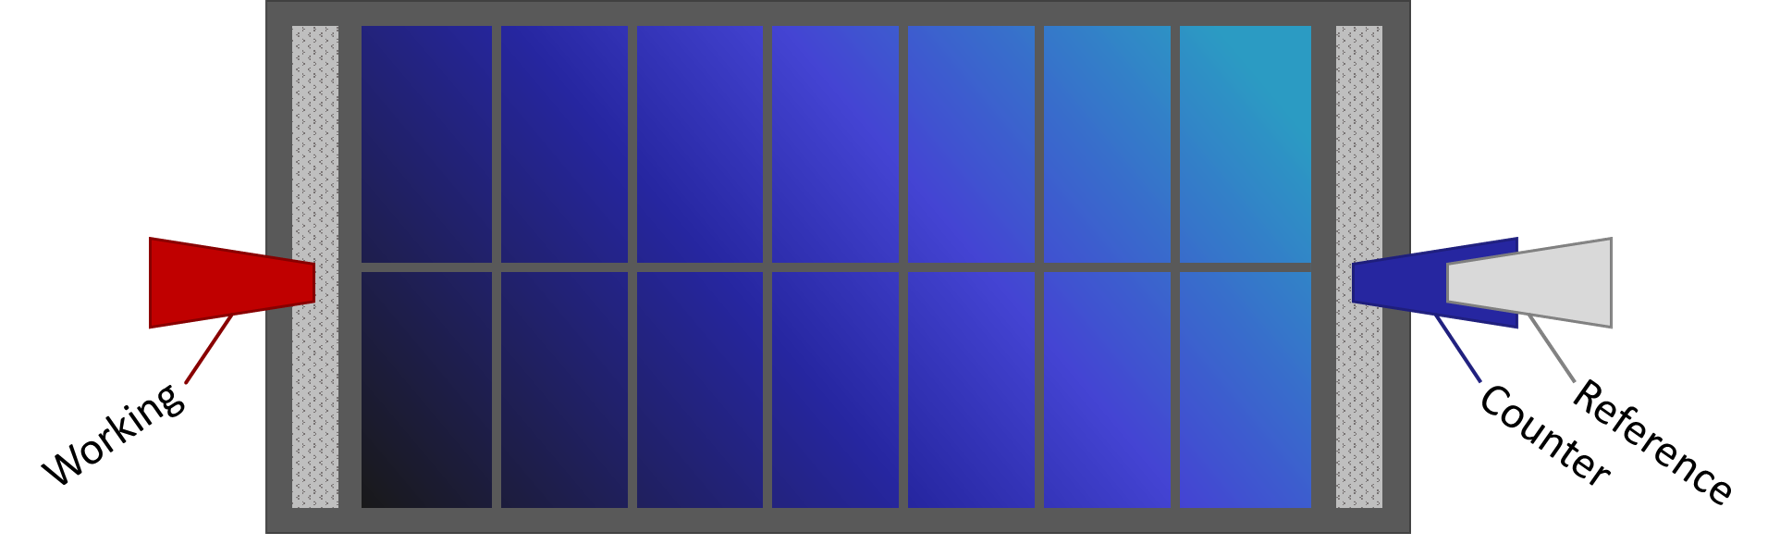
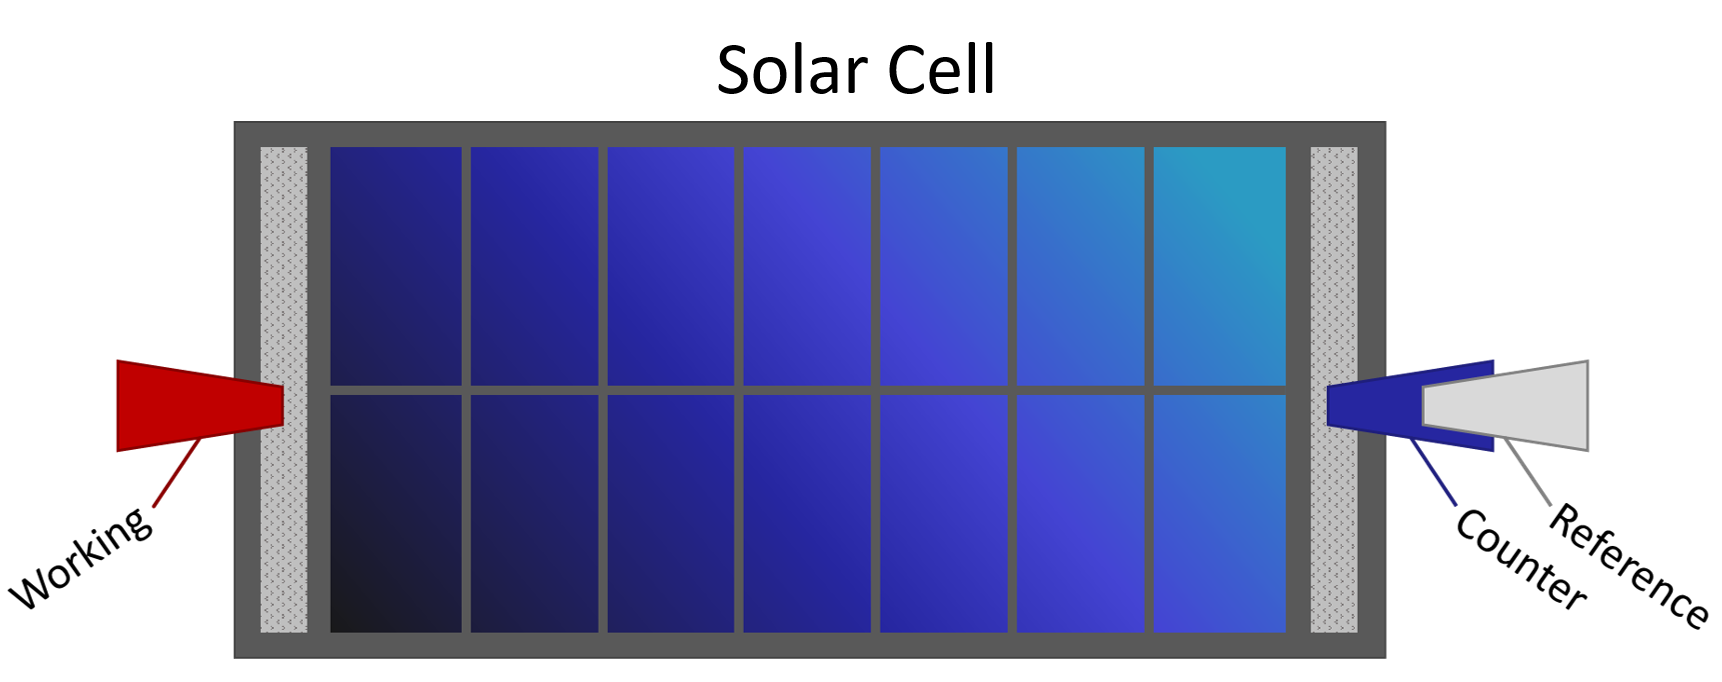
updated solar cell figure and added caption; added in-text ref to figure

diff --git a/docs/experimentsetup.rst b/docs/experimentsetup.rst
@@ -69,12 +69,17 @@ Two-electrode experiment
 In each of these applications, the electrochemical cell only has two electrical leads. However, the potentiostat has
 three clips. To connect the potentiostat to one of these cells, attach the potentiostat reference electrode clip (white) to the
 potentiostat counter electrode clip (blue). Now there should be a working electrode clip (red) and a counter/reference clip (blue/white) to attach
-to the two leads on the electrochemical cell (example in figure with solar cell connections). Once these are attached to the electrochemical cell, you are ready to begin
+to the two leads on the electrochemical cell, as shown in :ref:`Figure 1 <solar_cell_fig>`. Once these are attached to the electrochemical cell, you are ready to begin
 :ref:`operating the potentiostat <basic_operation>`.
 
-.. note:: The colors associated with the potentiostat wires can change depending on the convention used by the person building the potentiostat. If you built the JUAMI Potentiostat you are using, be sure to record which color was associated with each electrode. If the JUAMI Potentiostat was built by someone else, check the documentation that the builder might have provided you or contact them to find out what convention was used.
+.. _solar_cell_fig:
 
-.. todo:: add a diagram that shows an example.
+.. image:: _static/solar_two_electrode_setup.png
+
+.. rubric:: Figure 1: Two electrode solar cell diagram that shows the connection of the working electrode clip to one electrical contact (typically positive) and the counter and reference electrode clips connected to the other electrical contact (typically negative).
+
+
+.. note:: The colors associated with the potentiostat wires can change depending on the convention used by the person building the potentiostat. If you built the JUAMI Potentiostat you are using, be sure to record which color was associated with each electrode. If the JUAMI Potentiostat was built by someone else, check the documentation that the builder might have provided you or contact them to find out what convention was used.
 
 Three-electrode experiment
 ---------------------------
